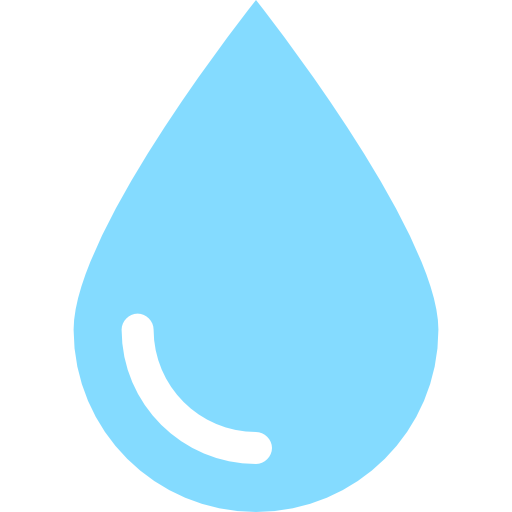
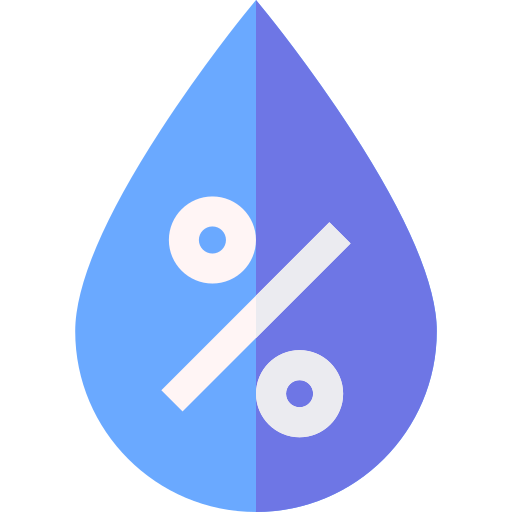
modif images et taille

diff --git a/files/public/js/weather.js b/files/public/js/weather.js
@@ -174,26 +174,26 @@ function fill_hours_weather() {
         text_hour_i.classList.add("text-center");
         text_hour_i.classList.add("my-1");
         var date_i = moment(weather.previous_hourly[i].dt * 1000);
-		text_hour_i.innerHTML = date_i.format("HH") + "H";
+        text_hour_i.innerHTML = date_i.format("HH") + "H";
         div_weather_hours_i.appendChild(text_hour_i);
 
         if (date_i.format("HH") == str_end_hour.tz(weather.timezone).format("HH")) {
-			div_carousel.classList.add("active");
+            div_carousel.classList.add("active");
         }
 
         // Draw icon
         var weather_icon_date_div_i = document.createElement("div");
         weather_icon_date_div_i.classList.add("text-center");
         weather_icon_date_div_i.classList.add("my-1");
-        
-		var weather_icon_date_i = document.createElement("img");
+
+        var weather_icon_date_i = document.createElement("img");
         var weather_dir_icon_date_i = `/images/weather/${weather.previous_hourly[i].weather[0].icon}.png`;
         weather_icon_date_i.setAttribute("src", weather_dir_icon_date_i);
         weather_icon_date_i.setAttribute("width", "64");
         weather_icon_date_i.setAttribute("height", "64");
         weather_icon_date_div_i.appendChild(weather_icon_date_i);
-        
-		div_weather_hours_i.appendChild(weather_icon_date_div_i);
+
+        div_weather_hours_i.appendChild(weather_icon_date_div_i);
 
         //
         /* var weather_description_i = document.createElement("div");
@@ -244,22 +244,22 @@ function fill_hours_weather() {
         div_weather_hours_i.appendChild(text_hour_i);
 
         if (date_i.format("HH") == str_end_hour.tz(weather.timezone).format("HH")) {
-			div_carousel.classList.add("active");
+            div_carousel.classList.add("active");
         }
 
         // Draw icon
         var weather_icon_date_div_i = document.createElement("div");
         weather_icon_date_div_i.classList.add("text-center");
         weather_icon_date_div_i.classList.add("my-1");
-        
-		var weather_icon_date_i = document.createElement("img");
+
+        var weather_icon_date_i = document.createElement("img");
         var weather_dir_icon_date_i = `/images/weather/${weather.forecast_hourly[i].weather[0].icon}.png`;
         weather_icon_date_i.setAttribute("src", weather_dir_icon_date_i);
         weather_icon_date_i.setAttribute("width", "64");
         weather_icon_date_i.setAttribute("height", "64");
         weather_icon_date_div_i.appendChild(weather_icon_date_i);
-        
-		div_weather_hours_i.appendChild(weather_icon_date_div_i);
+
+        div_weather_hours_i.appendChild(weather_icon_date_div_i);
 
         //
         /* var weather_description_i = document.createElement("div");
@@ -353,50 +353,50 @@ function fill_week_weather() {
         weather_description_i.classList.add("my-1");
         weather_description_i.innerHTML = weather.daily[i].weather[0].description;
         div_weather_week_i.appendChild(weather_description_i);
-		
-		var div_weather_humidity_i = document.createElement("div");
-		div_weather_humidity_i.classList.add("d-flex");
-		div_weather_humidity_i.classList.add("justify-content-center");
-		div_weather_humidity_i.classList.add("my-1");
-		
-		var weather_humidity_i_icon = document.createElement("img");
-		weather_humidity_i_icon.classList.add("text-center");
-		weather_humidity_i_icon.classList.add("mx-1");
-		var weather_humidity_i_icon_dir = `/images/weather/drop.png`;
-		weather_humidity_i_icon.setAttribute("src", weather_humidity_i_icon_dir);
-        weather_humidity_i_icon.setAttribute("width", "16");
-        weather_humidity_i_icon.setAttribute("height", "16");
-		div_weather_humidity_i.appendChild(weather_humidity_i_icon);
 
-		var weather_humidity_i_text = document.createElement("div");
-		weather_humidity_i_text.classList.add("mx-1");
-		weather_humidity_i_text.innerHTML = `${weather.daily[i].humidity}%`;
-		div_weather_humidity_i.appendChild(weather_humidity_i_text);
+        var div_weather_humidity_i = document.createElement("div");
+        div_weather_humidity_i.classList.add("d-flex");
+        div_weather_humidity_i.classList.add("justify-content-center");
+        div_weather_humidity_i.classList.add("my-1");
 
-		div_weather_week_i.appendChild(div_weather_humidity_i);
+        var weather_humidity_i_icon = document.createElement("img");
+        weather_humidity_i_icon.classList.add("text-center");
+        weather_humidity_i_icon.classList.add("mx-1");
+        var weather_humidity_i_icon_dir = `/images/weather/drop.png`;
+        weather_humidity_i_icon.setAttribute("src", weather_humidity_i_icon_dir);
+        weather_humidity_i_icon.setAttribute("width", "32");
+        weather_humidity_i_icon.setAttribute("height", "32");
+        div_weather_humidity_i.appendChild(weather_humidity_i_icon);
 
-		//
-		var div_weather_wind_i = document.createElement("div");
-		div_weather_wind_i.classList.add("d-flex");
-		div_weather_wind_i.classList.add("justify-content-center");
-		div_weather_wind_i.classList.add("my-1");
+        var weather_humidity_i_text = document.createElement("div");
+        weather_humidity_i_text.classList.add("mx-1");
+        weather_humidity_i_text.innerHTML = `${weather.daily[i].humidity}%`;
+        div_weather_humidity_i.appendChild(weather_humidity_i_text);
 
-		var weather_wind_i_icon = document.createElement("img");
-		weather_wind_i_icon.classList.add("text-center");
-		weather_wind_i_icon.classList.add("mx-1");
-		var weather_wind_i_icon_dir = `/images/weather/wind.png`;
-		weather_wind_i_icon.setAttribute("src", weather_wind_i_icon_dir);
-        weather_wind_i_icon.setAttribute("width", "16");
-        weather_wind_i_icon.setAttribute("height", "16");
+        div_weather_week_i.appendChild(div_weather_humidity_i);
+
+        //
+        var div_weather_wind_i = document.createElement("div");
+        div_weather_wind_i.classList.add("d-flex");
+        div_weather_wind_i.classList.add("justify-content-center");
+        div_weather_wind_i.classList.add("my-2");
+
+        var weather_wind_i_icon = document.createElement("img");
+        weather_wind_i_icon.classList.add("text-center");
+        weather_wind_i_icon.classList.add("mx-1");
+        var weather_wind_i_icon_dir = `/images/weather/wind.png`;
+        weather_wind_i_icon.setAttribute("src", weather_wind_i_icon_dir);
+        weather_wind_i_icon.setAttribute("width", "32");
+        weather_wind_i_icon.setAttribute("height", "32");
         weather_wind_i_icon.style.transform = `rotate(${weather.daily[i].wind_deg}deg)`;
-		div_weather_wind_i.appendChild(weather_wind_i_icon);
+        div_weather_wind_i.appendChild(weather_wind_i_icon);
 
-		var weather_wind_i_text = document.createElement("div");
-		weather_wind_i_text.classList.add("mx-1");
-		weather_wind_i_text.innerHTML = `${weather.daily[i].wind_speed}km/h`;
-		div_weather_wind_i.appendChild(weather_wind_i_text);
+        var weather_wind_i_text = document.createElement("div");
+        weather_wind_i_text.classList.add("mx-1");
+        weather_wind_i_text.innerHTML = `${weather.daily[i].wind_speed}km/h`;
+        div_weather_wind_i.appendChild(weather_wind_i_text);
 
-		div_weather_week_i.appendChild(div_weather_wind_i);
+        div_weather_week_i.appendChild(div_weather_wind_i);
 
         div_weather_week.appendChild(div_weather_week_i);
     }
@@ -419,21 +419,21 @@ function fill_date() {
  */
 function updateTime() {
     var now = moment().tz(weather.timezone).format("HH mm ss");
-	var now_split = now.split(" ");
+    var now_split = now.split(" ");
 
     var div_hour = document.getElementById("hour");
     var div_min = document.getElementById("minute");
     var div_sec = document.getElementById("second");
 
-	if (div_hour.innerHTML != now_split[0]) {
-		div_hour.innerHTML = now_split[0];
-	}
-	if (div_min.innerHTML != now_split[1]) {
-		div_min.innerHTML = now_split[1];
-	}
-	if (div_sec.innerHTML != now_split[2]) {
-		div_sec.innerHTML = now_split[2];
-	}
+    if (div_hour.innerHTML != now_split[0]) {
+        div_hour.innerHTML = now_split[0];
+    }
+    if (div_min.innerHTML != now_split[1]) {
+        div_min.innerHTML = now_split[1];
+    }
+    if (div_sec.innerHTML != now_split[2]) {
+        div_sec.innerHTML = now_split[2];
+    }
 }
 
 /**
